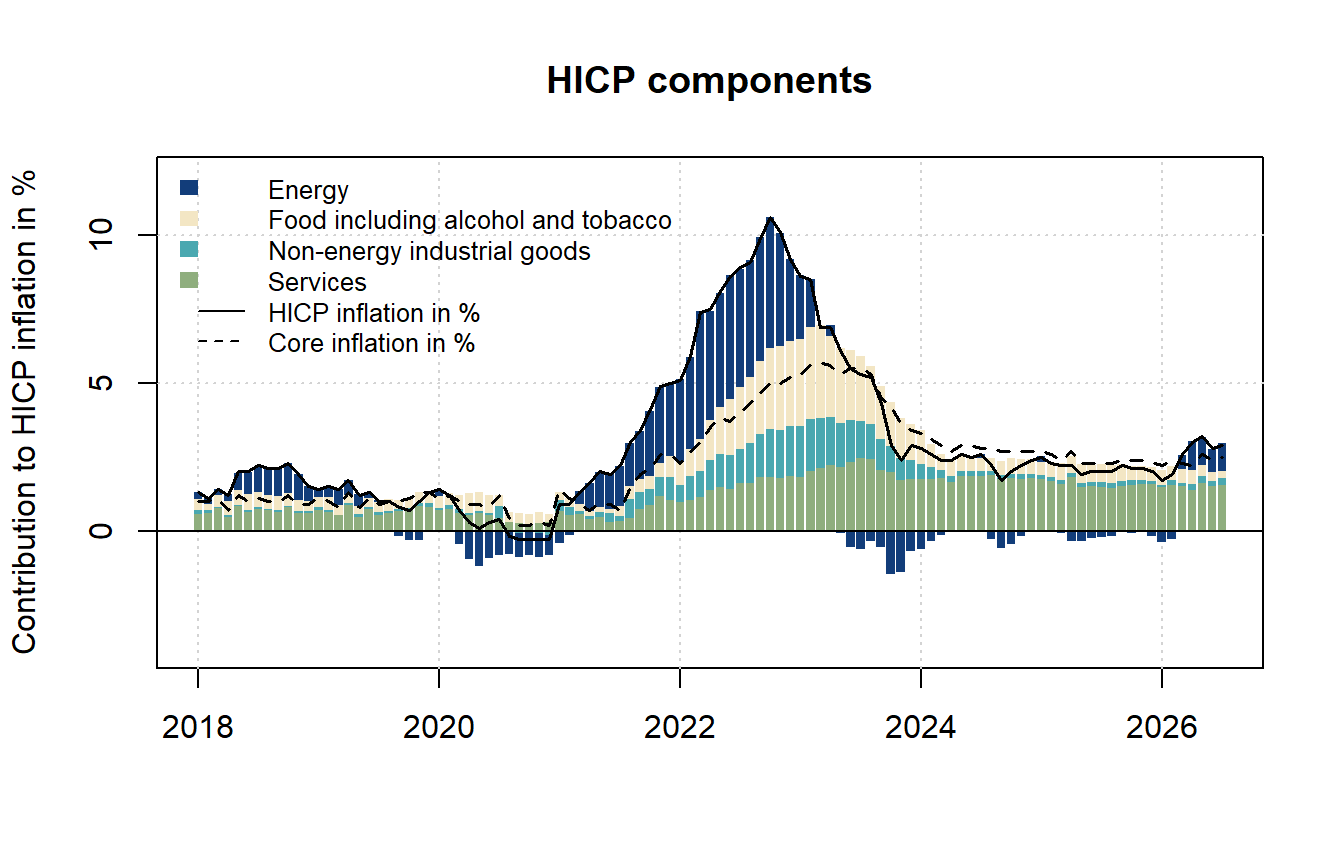
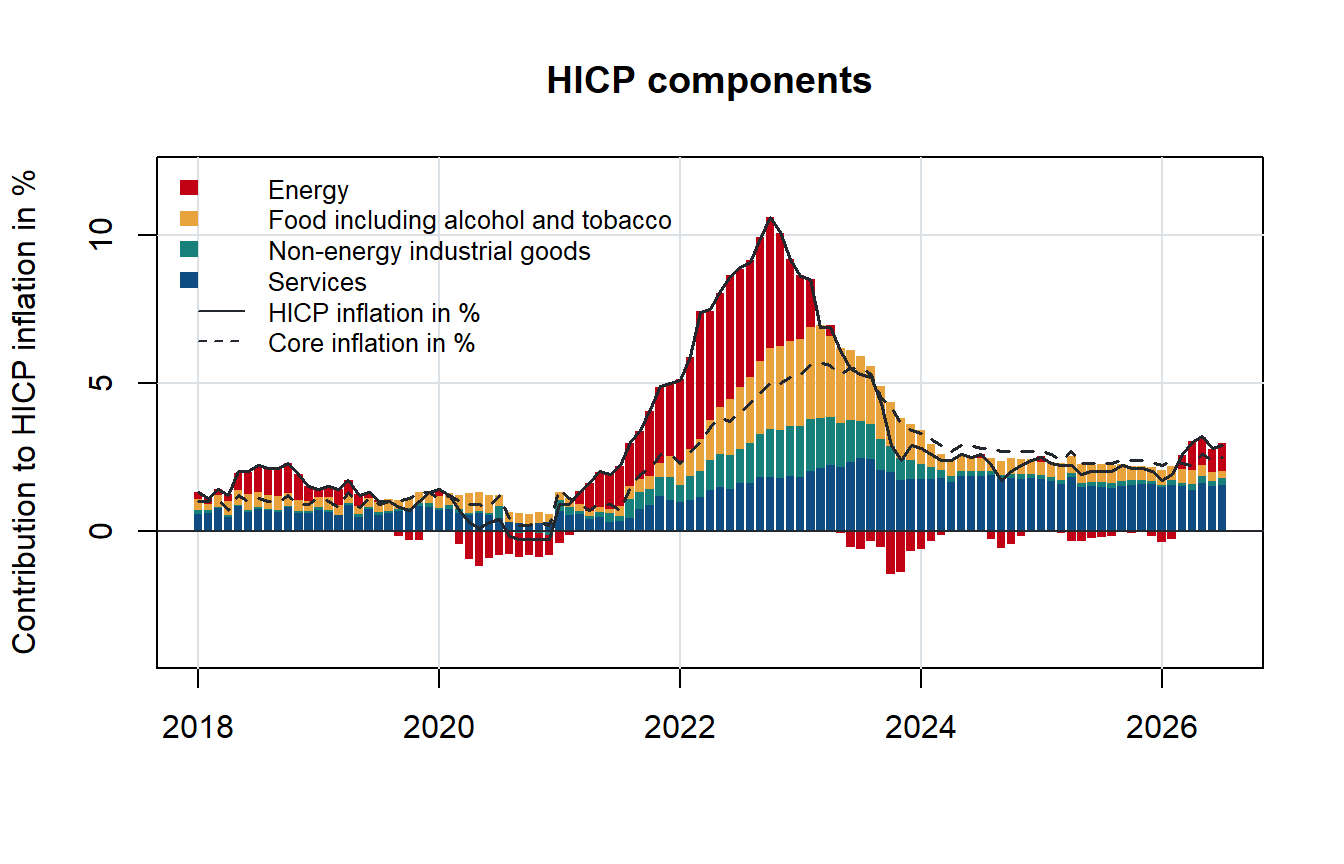
Use the corporate design colours in the Hochmuth & Petz charts
The four charts take their colours from the light palette of the
social-media project's corporate design: services blue, NEIG teal,
goods and food amber, energy and the remaining gap red, with its ink
and grid colours for lines, baselines and gridlines. The credible band
of chart 4 is a neutral grey, so it does not tint the bars beneath it.

Changed region(s): [[0.125, 0.25, 0.9375, 0.6875], [0.125, 0.1875, 0.1562, 0.3438]]

diff --git a/content/reproduction/2026_hochmuth_petz_services.html b/content/reproduction/2026_hochmuth_petz_services.html
@@ -105,15 +105,17 @@ months &lt;- months[months &lt;= &quot;2026-07&quot;]   # the brief&#39;s last o
 
 write.csv(data.frame(month = months, ctr[months, ], rates[months, ]),
           &quot;_2026_hochmuth_petz_contributions.csv&quot;, row.names = FALSE)</code></pre>
-<p>The contributions add up to headline inflation up to rounding. The bars of a month are stacked upwards from zero where they are positive and downwards where they are negative:</p>
+<p>The contributions add up to headline inflation up to rounding. The bars of a month are stacked upwards from zero where they are positive and downwards where they are negative. All charts on this page share one set of colours, with services always in blue:</p>
+<pre class="r"><code>colours &lt;- c(red = &quot;#C10016&quot;, blue = &quot;#0F4C81&quot;, amber = &quot;#E8A33D&quot;, teal = &quot;#17807A&quot;,
+             ink = &quot;#22282E&quot;, grid = &quot;#DCE1E5&quot;)</code></pre>
 <pre class="r"><code>ctr &lt;- read.csv(&quot;_2026_hochmuth_petz_contributions.csv&quot;)
 date &lt;- seq(2018, by = 1 / 12, length.out = nrow(ctr))
 parts &lt;- as.matrix(ctr[, c(&quot;SERV&quot;, &quot;IGD_NNRG&quot;, &quot;FOOD&quot;, &quot;NRG&quot;)])
-cols &lt;- c(&quot;#8fae7e&quot;, &quot;#4aa8b0&quot;, &quot;#f3e6c4&quot;, &quot;#123d7a&quot;)
+cols &lt;- colours[c(&quot;blue&quot;, &quot;teal&quot;, &quot;amber&quot;, &quot;red&quot;)]
 
 plot(NA, xlim = range(date), ylim = c(-4, 12), xlab = &quot;&quot;,
      ylab = &quot;Contribution to HICP inflation in %&quot;, main = &quot;HICP components&quot;)
-grid()
+grid(col = colours[[&quot;grid&quot;]], lty = 1)
 up &lt;- pmax(parts, 0)
 down &lt;- pmin(parts, 0)
 for (j in seq_len(ncol(parts))) {
@@ -122,14 +124,14 @@ for (j in seq_len(ncol(parts))) {
   rect(date - 0.035, top - up[, j], date + 0.035, top, col = cols[j], border = NA)
   rect(date - 0.035, bottom - down[, j], date + 0.035, bottom, col = cols[j], border = NA)
 }
-lines(date, ctr$TOTAL, lwd = 1.5)
-lines(date, ctr$TOT_X_NRG_FOOD, lwd = 1.5, lty = 2)
-abline(h = 0)
+lines(date, ctr$TOTAL, lwd = 1.5, col = colours[[&quot;ink&quot;]])
+lines(date, ctr$TOT_X_NRG_FOOD, lwd = 1.5, lty = 2, col = colours[[&quot;ink&quot;]])
+abline(h = 0, col = colours[[&quot;ink&quot;]])
 legend(&quot;topleft&quot;, legend = c(&quot;Energy&quot;, &quot;Food including alcohol and tobacco&quot;,
                              &quot;Non-energy industrial goods&quot;, &quot;Services&quot;,
                              &quot;HICP inflation in %&quot;, &quot;Core inflation in %&quot;),
        fill = c(rev(cols), NA, NA), border = NA, lty = c(NA, NA, NA, NA, 1, 2),
-       bty = &quot;n&quot;, cex = 0.8)</code></pre>
+       col = colours[[&quot;ink&quot;]], bty = &quot;n&quot;, cex = 0.8)</code></pre>
 <p><img src="/reproduction/2026_hochmuth_petz_services_files/figure-html/chart1-1.png" alt="" width="672" /></p>
 <p>The chart matches the published one. Headline inflation peaked at 10.6% in October 2022, when energy alone contributed 4.44 percentage points. The contribution of services rose more slowly and peaked later, at 2.47 points in July 2023, and has receded more slowly than the others: in July 2026 it still accounted for 1.55 of 2.9 points, more than half of headline inflation, while energy, which had subtracted from inflation for most of 2023 to 2025, was adding 0.94 points again.</p>
 </div>
@@ -152,12 +154,12 @@ prices_nsa &lt;- aggregate(hicp, nfrequency = 4, FUN = mean)
 ea_neig &lt;- relative_price(prices_nsa[, &quot;SERV&quot;], prices_nsa[, &quot;IGD_NNRG&quot;], fit_end = 2020)
 ea_goods &lt;- relative_price(prices_nsa[, &quot;SERV&quot;], prices_nsa[, &quot;GD&quot;], fit_end = 2020)</code></pre>
 <pre class="r"><code>ts.plot(ea_neig$price, ea_neig$trend, ea_goods$price, ea_goods$trend,
-        col = rep(c(&quot;#123d7a&quot;, &quot;#d9b56b&quot;), each = 2), lty = c(1, 2, 1, 2), lwd = 2,
+        col = rep(colours[c(&quot;teal&quot;, &quot;amber&quot;)], each = 2), lty = c(1, 2, 1, 2), lwd = 2,
         xlab = &quot;&quot;, ylab = &quot;Relative price (Q1 2000 = 100)&quot;,
         main = &quot;Price of services relative to goods (euro area)&quot;)
-abline(h = 100)
+abline(h = 100, col = colours[[&quot;ink&quot;]])
 legend(&quot;topleft&quot;, legend = c(&quot;Services relative to NEIG&quot;, &quot;Services relative to goods&quot;),
-       col = c(&quot;#123d7a&quot;, &quot;#d9b56b&quot;), lwd = 2, bty = &quot;n&quot;)</code></pre>
+       col = colours[c(&quot;teal&quot;, &quot;amber&quot;)], lwd = 2, bty = &quot;n&quot;)</code></pre>
 <p><img src="/reproduction/2026_hochmuth_petz_services_files/figure-html/chart2-1.png" alt="" width="672" /></p>
 <p>Before the pandemic services became 1.3% a year more expensive relative to NEIG, and 0.3% relative to overall goods. Both relative prices fell below their trends in 2021 and 2022. The one against overall goods fell much more, because the energy and food prices it includes rose most, and it has made up less of the loss since. In the second quarter of 2026 services relative to NEIG are 3.2% below the extrapolated trend, which the brief puts at 3.5%, and relative to overall goods 5% below it.</p>
 <p>The euro area series is short, so the brief turns to post-war US data to ask whether such a trend survives large shocks. Chart 3 is the price of services relative to commodities in the US consumer price index for all urban consumers (CPI-U), series <code>CUUR0000SAS</code> and <code>CUUR0000SAC</code> of the Bureau of Labor Statistics. Its public API returns at most ten years per request:</p>
@@ -195,10 +197,10 @@ us_q &lt;- window(us_q, start = c(1949, 4))   # the first moving average ends in
 us_rel &lt;- relative_price(us_q[, &quot;CUUR0000SAS&quot;], us_q[, &quot;CUUR0000SAC&quot;])
 
 ts.plot(window(us_rel$price, start = 1950), window(us_rel$trend, start = 1950),
-        col = &quot;#123d7a&quot;, lty = c(1, 2), lwd = 2, xlab = &quot;&quot;,
+        col = colours[[&quot;blue&quot;]], lty = c(1, 2), lwd = 2, xlab = &quot;&quot;,
         ylab = &quot;Relative price (Q1 2000 = 100)&quot;,
         main = &quot;Price of services relative to commodities (USA)&quot;)
-abline(h = 100)</code></pre>
+abline(h = 100, col = colours[[&quot;ink&quot;]])</code></pre>
 <p><img src="/reproduction/2026_hochmuth_petz_services_files/figure-html/chart3-1.png" alt="" width="672" /></p>
 <p>Over seventy years US services became 1.5% a year more expensive relative to commodities, and the relative price never strayed far from that trend: not in the commodity price shocks of the 1970s, not in the oil price swings of the 2000s and not in 2021 and 2022. The recent surge pushed it further below the trend than at any other time since 1950, by almost ten percent, and it has since returned to within three percent of it, which is what the brief expects of the euro area as well. As the brief points out, the two charts are not directly comparable, since the US series compares services with commodities rather than with goods.</p>
 </div>
@@ -319,24 +321,25 @@ model_goods &lt;- estimate_gap_model(prices, &quot;goods&quot;)</code></pre>
 closure_neig &lt;- gap_closure(model_neig)
 closure_goods &lt;- gap_closure(model_goods)</code></pre>
 <p>Chart 4 of the paper shows the median of the remaining gap with its 68% credible interval, and the median contributions as bars that start at 100: the services bars point down, because higher services inflation closes the gap, and the NEIG bars point up, because higher NEIG inflation widens it. Where both contributions close the gap, as in the specification with overall goods below, the bars are stacked.</p>
-<pre class="r"><code>plot_closure &lt;- function(x, label) {
+<pre class="r"><code>plot_closure &lt;- function(x, label, colour) {
+  bars &lt;- adjustcolor(c(colours[[&quot;blue&quot;]], colour), 0.45)
   plot(NA, xlim = range(x$h), ylim = range(c(-50, 160, 100 - x$services)),
        xlab = &quot;Quarters after the initial gap&quot;, ylab = &quot;% of initial gap&quot;,
        main = &quot;What closes the gap?&quot;)
-  grid()
+  grid(col = colours[[&quot;grid&quot;]], lty = 1)
   # Contributions with the same sign are stacked, opposite ones start at 100
   base &lt;- ifelse(sign(x$other) == sign(x$services), 100 - x$services, 100)
-  rect(x$h - 0.35, 100, x$h + 0.35, 100 - x$services, col = &quot;#f3e6c4&quot;, border = NA)
-  rect(x$h - 0.35, base, x$h + 0.35, base - x$other, col = &quot;#9fd3d6&quot;, border = NA)
+  rect(x$h - 0.35, 100, x$h + 0.35, 100 - x$services, col = bars[1], border = NA)
+  rect(x$h - 0.35, base, x$h + 0.35, base - x$other, col = bars[2], border = NA)
   polygon(c(x$h, rev(x$h)), c(x$lower, rev(x$upper)),
-          col = adjustcolor(&quot;#5a7fb8&quot;, 0.35), border = NA)
-  lines(x$h, x$remaining, col = &quot;#123d7a&quot;, lwd = 2)
-  abline(h = c(0, 100))
+          col = adjustcolor(colours[[&quot;ink&quot;]], 0.2), border = NA)
+  lines(x$h, x$remaining, col = colours[[&quot;red&quot;]], lwd = 2)
+  abline(h = c(0, 100), col = colours[[&quot;ink&quot;]])
   legend(&quot;bottomleft&quot;, legend = c(&quot;Services&quot;, label, &quot;Remaining gap&quot;),
-         fill = c(&quot;#f3e6c4&quot;, &quot;#9fd3d6&quot;, NA), border = NA, lty = c(NA, NA, 1),
-         col = c(NA, NA, &quot;#123d7a&quot;), lwd = 2, bty = &quot;n&quot;)
+         fill = c(bars, NA), border = NA, lty = c(NA, NA, 1),
+         col = c(NA, NA, colours[[&quot;red&quot;]]), lwd = 2, bty = &quot;n&quot;)
 }</code></pre>
-<pre class="r"><code>plot_closure(closure_neig, &quot;NEIG&quot;)</code></pre>
+<pre class="r"><code>plot_closure(closure_neig, &quot;NEIG&quot;, colours[[&quot;teal&quot;]])</code></pre>
 <p><img src="/reproduction/2026_hochmuth_petz_services_files/figure-html/chart4-1.png" alt="" width="672" /></p>
 <p>The chart is close to the published one. The remaining gap falls below 50% between quarters 14 and 15, exactly where the paper puts it, about three and a half years. At quarter 14 services inflation has closed 77 percentage points of the gap and NEIG inflation has widened it by 29, against 76 and 26 in the paper. After ten years 13% of the gap is left, as in the published chart.</p>
 <pre class="r"><code>knitr::kable(closure_neig[closure_neig$h %in% c(4, 8, 14, 15, 20, 40), ],
@@ -408,7 +411,7 @@ closure_goods &lt;- gap_closure(model_goods)</code></pre>
 <div id="overall-goods-instead-of-neig" class="section level2">
 <h2>Overall goods instead of NEIG</h2>
 <p>The same model with the overall goods index adjusts much faster:</p>
-<pre class="r"><code>plot_closure(closure_goods, &quot;Goods&quot;)</code></pre>
+<pre class="r"><code>plot_closure(closure_goods, &quot;Goods&quot;, colours[[&quot;amber&quot;]])</code></pre>
 <p><img src="/reproduction/2026_hochmuth_petz_services_files/figure-html/chart4-goods-1.png" alt="" width="672" /></p>
 <p>Half of the gap is closed between quarters 4 and 5, which the paper reports as about five quarters. Here, unlike in the benchmark, both components close the gap, and goods inflation does more of it: at quarter 5 services contribute 17 and goods 41 percentage points, against roughly 15 and 38 in the paper. The goods loading is positive, and its 95% credible interval excludes zero: when services are cheap relative to goods, goods inflation falls. The faster adjustment reflects the energy and food prices in the goods index, which move much more than NEIG prices and return quickly after a shock.</p>
 </div>
